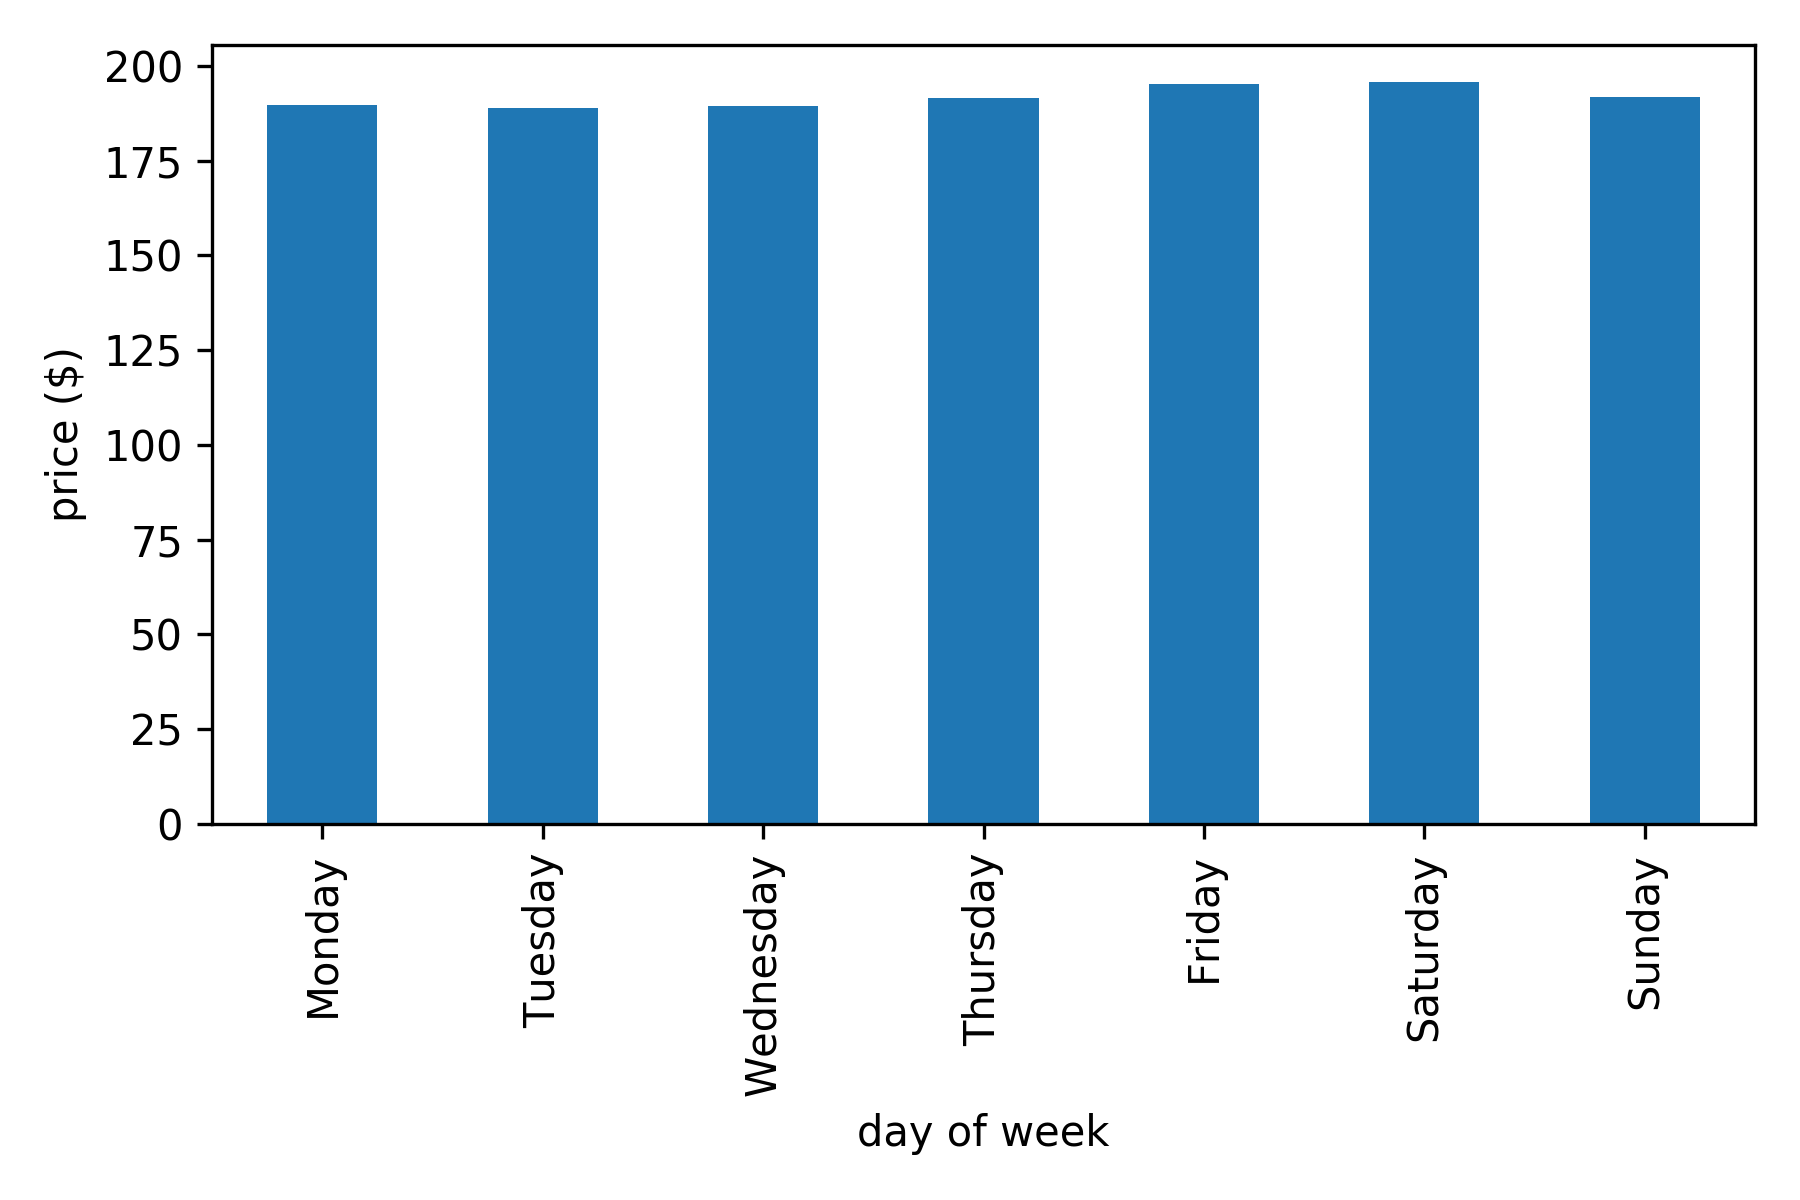
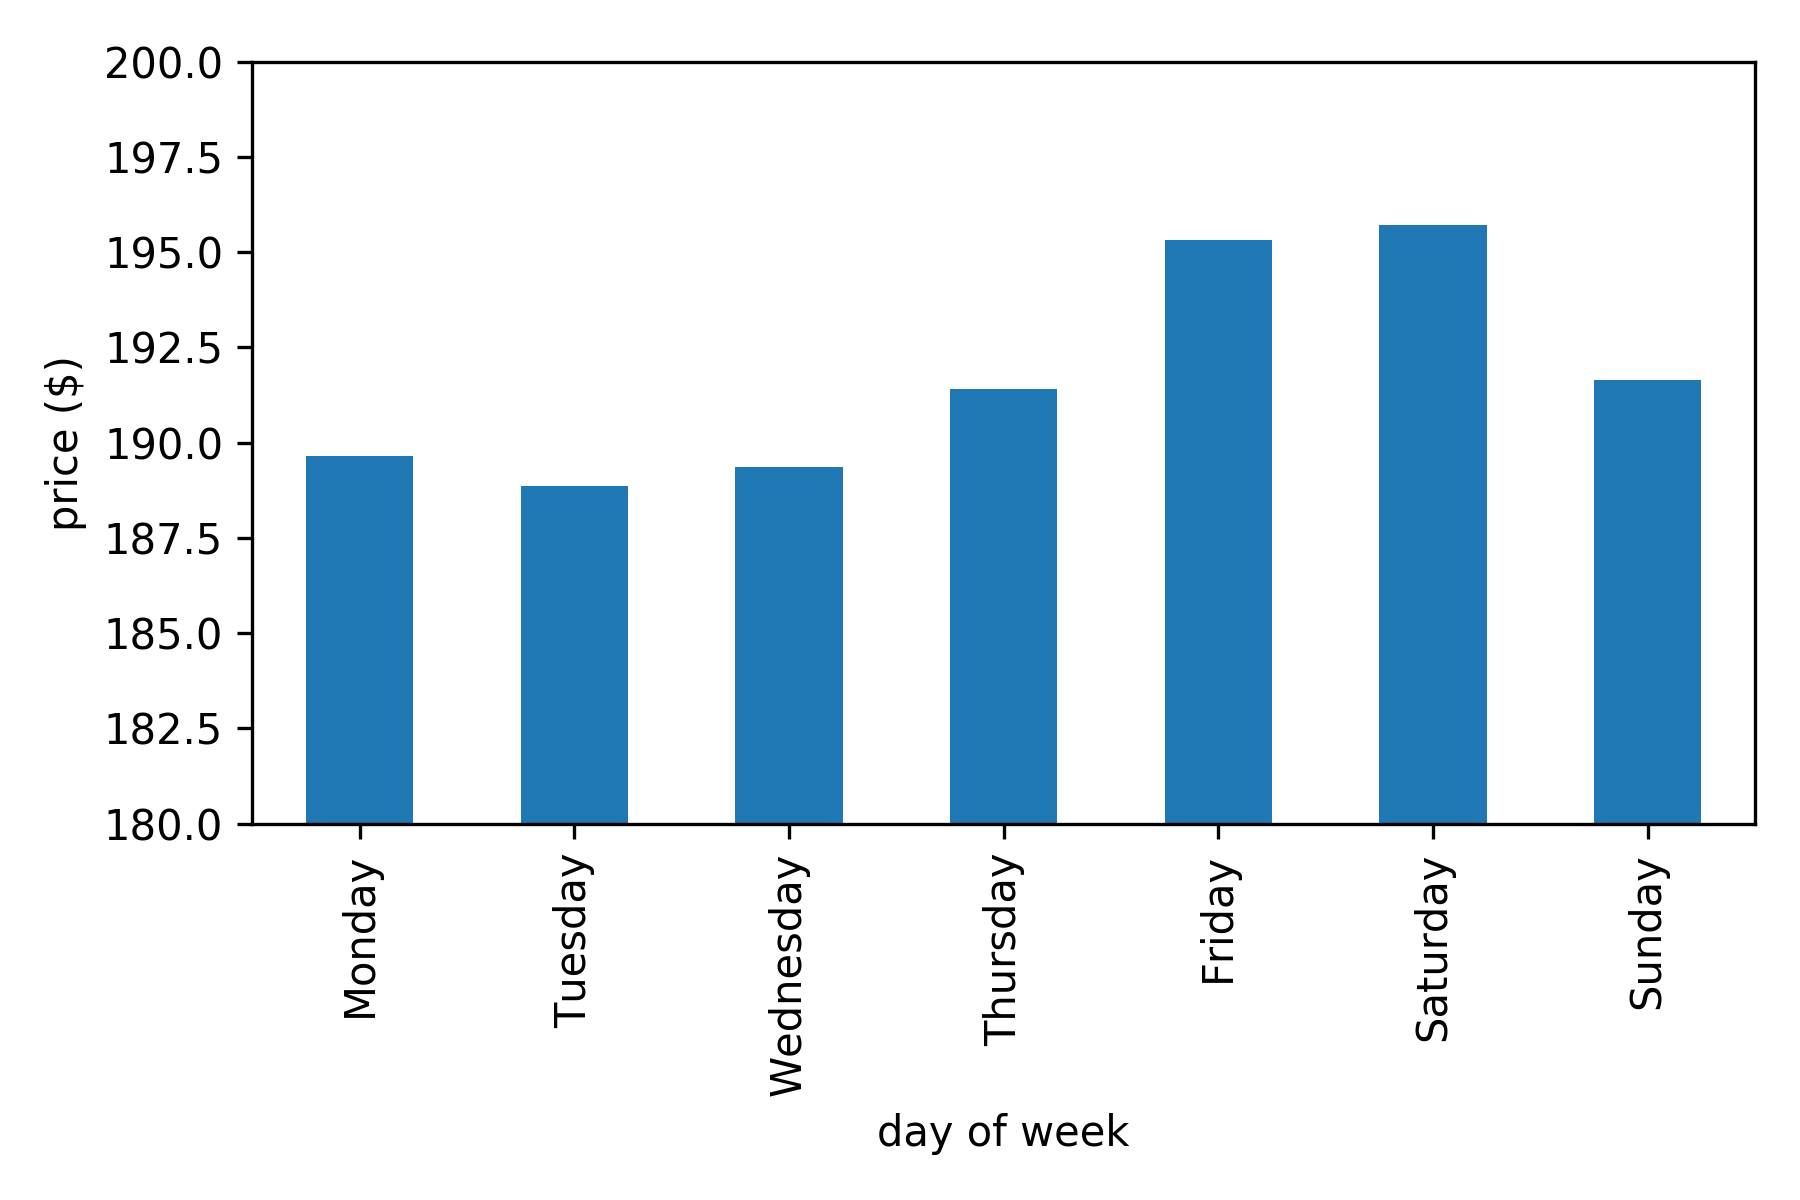
Extended post with answers to three questions.

diff --git a/_posts/2014-3-3-Hello-World.md b/_posts/2014-3-3-Hello-World.md
@@ -1,13 +1,74 @@
 ---
 layout: post
-title: You're up and running!
+title: Insights on Airbnb prices I found in the Airbnb Boston  dataset
 date: "2020-02-22"
 ---
 
-Next you can update your site name, avatar and other options using the _config.yml file in the root of your repository (shown below).
+The Boston Airbnb data analyzed in the following is freely available from [kaggle](https://www.kaggle.com/airbnb/boston) and is frequently used by data scientists for practitioning. The dataset contains Airbnb activity of around 3000 providers from the years 2016 and 2017 in the Boston area. Included are e.g. informations about review scores and comments, prices, availability and location of each individual provider.  
+In this case, the analysis was conducted as part of a "Data Science" course from Udacity. For completing the course, three freely selectable questions had to be answered. After a first look at the business model of Airbnb and the information available in the dataset, I choose to answer the following:
+1. What is the best time to find a cheap Airbnb accommodation?
+2. How do prices depend on location and neighbourhood in Boston?
+3. Which parameters influence pricing most?
 
-![_config.yml]({{ site.baseurl }}/images/config.png)
+### Data preparation, exploration and answers to the questions
+The analysis was carried out using [this](https://github.com/Riwedieb/Udacity_Boston_Analysis) Jupyter notebook.
+Out of the 95 features contained in the dataset, just 60 where used for further investigations. The decision on which features to omit was done by rather common sense, e.g. features like *URLs* or host IDs which where dropped right at the beginning since they where unlikely to be useful in further analysis  
 
-The easiest way to make your first post is to edit this one. Go into /_posts/ and update the Hello World markdown file. For more instructions head over to the [Jekyll Now repository](https://github.com/barryclark/jekyll-now) on GitHub.
+ Avoiding technical details, most of the data wrangling was transforming the data types. As an example, prices were expressed as a strings ($1,000), so transformed them into a number (1000). Categorical features, like e.g. the *host response* time or *property type* I transformed using ordinal or one-hot encoding.
+
+### 1. What is the best time to find a cheap Airbnb accommodation?
+At first, let's find out whether there is some annual time where prices are cheapest in Boston. So here is a plot of the mean prices of all host over one year:
+![price_year](/images/price_over_time.png)
+At first it looks like the time between January and April is the cheapest season.
+But wait, to conclude something on seasonality, we would expect an annual modulation. If we look at the right end (Sep. 2017) of the plot and at the left end (Oct. 2016), we see a big jump in price from about 180$ to 250$. That's a clear non-periodic behavior, so no conclusions on seasonality can be drawn from this data.
+On the other hand, there are some smaller "wiggles" visible in the plot. Maybe the wiggles correspond to a weekly modulation? Let's find out! The following plot shows the mean price calculated for each weekday:  
+![price_day](/images/price_per_day.png)
+
+Obviously there is some dependency on the day of the week.  
+We can conclude, that on weekends the mean Airbnb prices are higher by about 3-4% on average. On an annual timescale on the other hand, no statements are possible based on the given dataset.
+
+### 2. How do prices depend on location and neighborhood in Boston?
+In most parts of our world, house prices depend on their location.   
+So let's find out how the prices correspond location.
+For each host in the dataset geographical coordinates and its neighborhood are given.  
+The following map shows the location of each host, together with its color encoded price.
+The more red, the more expensive the host is:  
+![price_loc](/images/boston_map.jpg)
+
+There is a clear dependency of the prices on the geographic location of the Airbnb host.
+Having a closer look at the map it seems like the prices are highest in proximity to Charles river and around the Boston Public Garden.
+
+For further investigation, we want to find out in which neighborhoods prices are highest.  
+![price_neighbor](/images/price_per_neighbourhood.png)
+
+**Conclusion:**  
+The influence of the neighborhoods and host location on prices is quite clearly visible.  
+As the price distribution on the map already suggested, prices are higher in the neighborhoods closer to Boston Downtown.
+The lowest prices you can expect in Hyde Park and Mattapan.
+
+### 3. Which parameters influence pricing most?
+For finding out which parameters have highest influence on pricing, one common analysis method is to compute the correlation matrix. Bright colors indicate the dataset features which have a high correlation:
+![price_corr](/images/sns_heatmap.png)
+
+In the "price" column there are no strong correlations visible, except for additional fees like 'security_deposit' and 'cleaning_fee'.  
+Additionally, the number of bedrooms and bathrooms has an influence on the price.    
+There is one more column named 'property_type' in the dataset, which can be e.g. an apartment, house, bed & breakfast or even boat. Here the question arises how prices depend on property type. The following plot gives an overview:
+![price_prop](/images/price_per_prop_type.png)
+On average, prices are highest if you book a boat.
+On the other hand, the plot shows the spread between prices is highest for apartments and houses. For these two property types, you can expect the broadest ranges of possible prices.  
+
+Up to now we just investigated simple correlations between parameters and prices.  
+For having a deeper look at parameters which influence prices, a random forest model was trained so we are able to investigate which feature are most important for the model.
+Here are the top 5 results from the model:
+1. room type: entire home/apt
+2. nr. of accommodates
+3. nr. of bedrooms
+4. room type: private room
+5. amount of cleaning fees
+
+Especially whether you choose an entire home or a private room seems to have a big influence. The next important parameters are the number of accommodates and bedrooms and last in the list is the amount of cleaning fees you have to pay.
+
+
+
 
 ![Kitten]({{ site.baseurl }}/images/price_per_day.png "A cute kitten"){: style="float: left"; margin-right: 10em; height="25%" width="25%"} ## Some Text On Left!<br>Some Text On Left!<br><br>Some Text On Left!Some Text On Left!Some Text

diff --git a/about.md b/about.md
@@ -4,8 +4,4 @@ title: About
 permalink: /about/
 ---
 
-Some information about you!
-
-### More Information
-
-A place to include any other types of information that you'd like to include about yourself.
+I am currently taking the Udacity Data Science nano degree. One of the projects in the second term challenges us to find a dataset of our interest, come up with 3 questions, analyze the dataset, answer the questions and write a blog post summarizing our findings.
